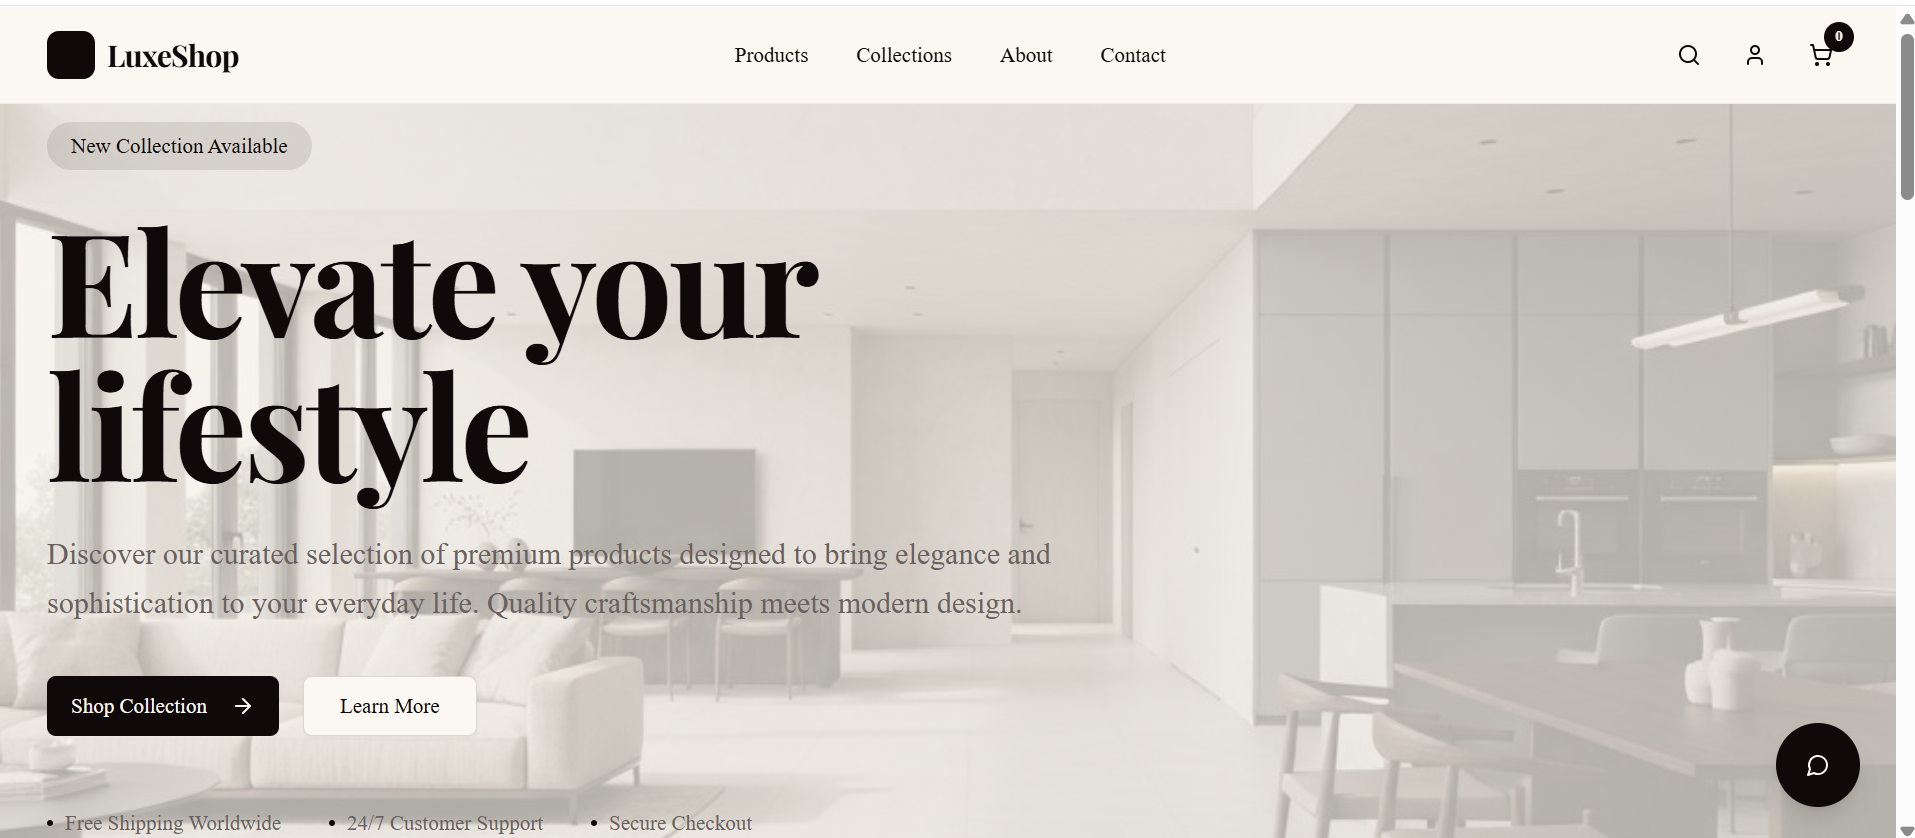
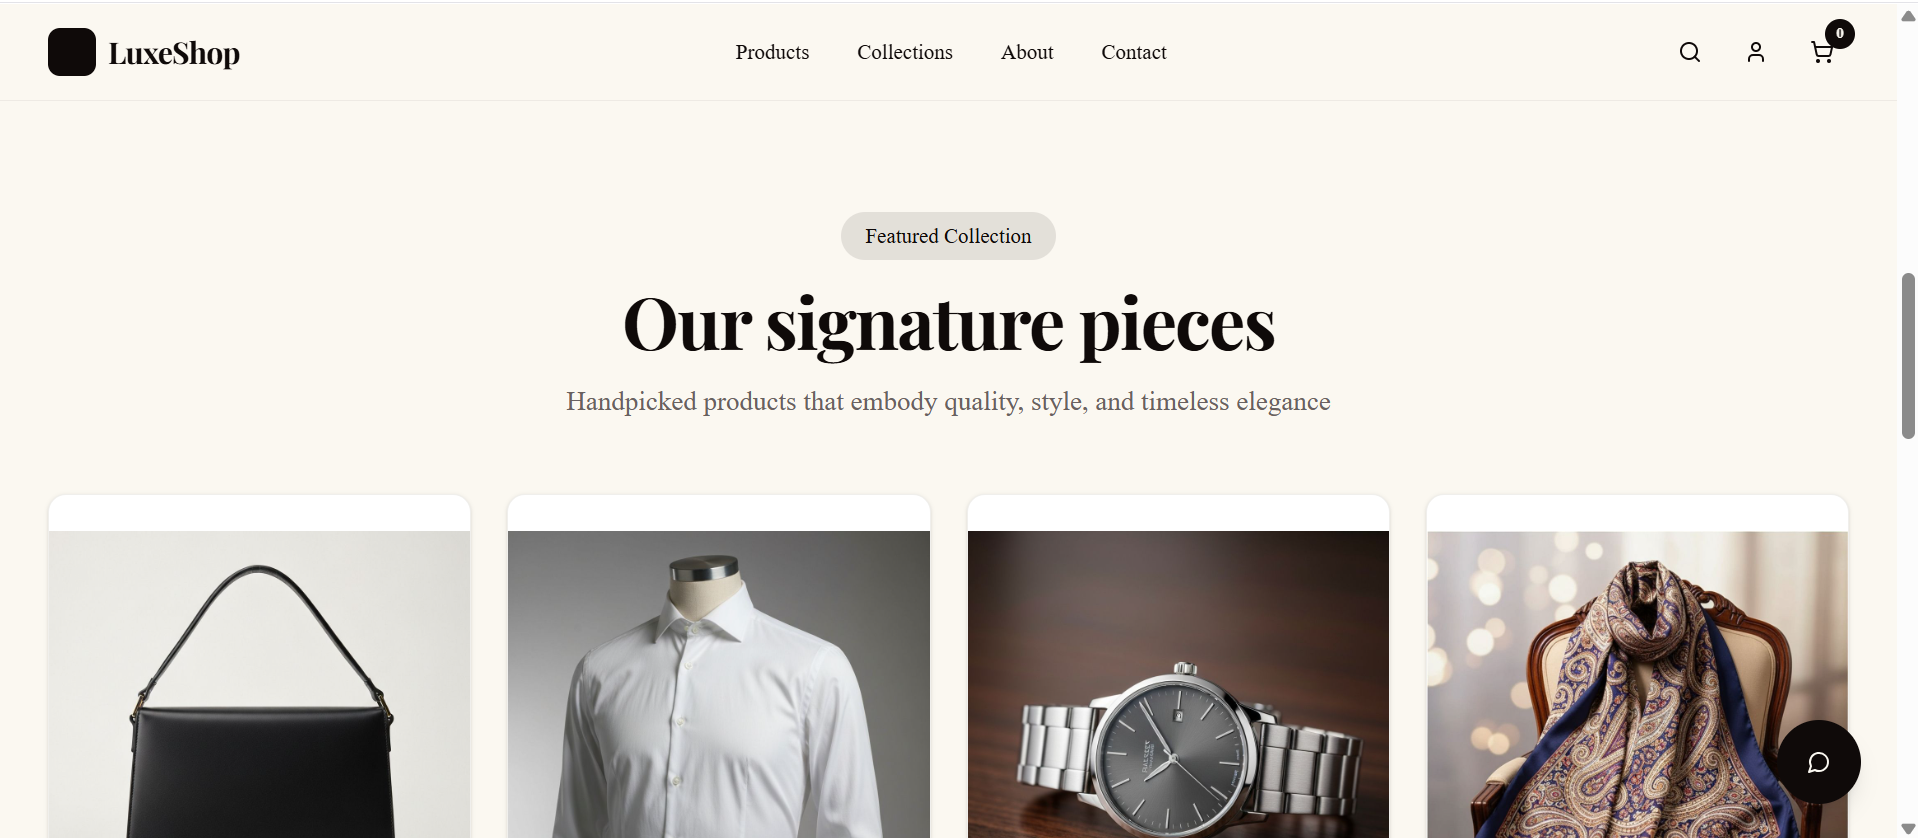
add pictur for under project

diff --git a/components/LanguageSwitcher.tsx b/components/LanguageSwitcher.tsx
@@ -26,7 +26,7 @@ export const LanguageSwitcher = () => {
         <button
             onClick={toggleLanguage}
             disabled={isPending}
-            className={`relative w-16 h-8 flex items-center rounded-full p-1 transition-colors duration-300 ${isDarkMode ? "bg-black/30" : "bg-white/30"}`}
+            className={`hidden md:flex relative w-16 h-8 items-center rounded-full p-1 transition-colors duration-300 ${isDarkMode ? "bg-black/30" : "bg-white/30"}`}
         >
             <span className={`absolute left-2 z-10 text-xs font-bold transition-opacity duration-300 ${!isFrench ? "opacity-100" : "opacity-50"}`}>
                 EN
